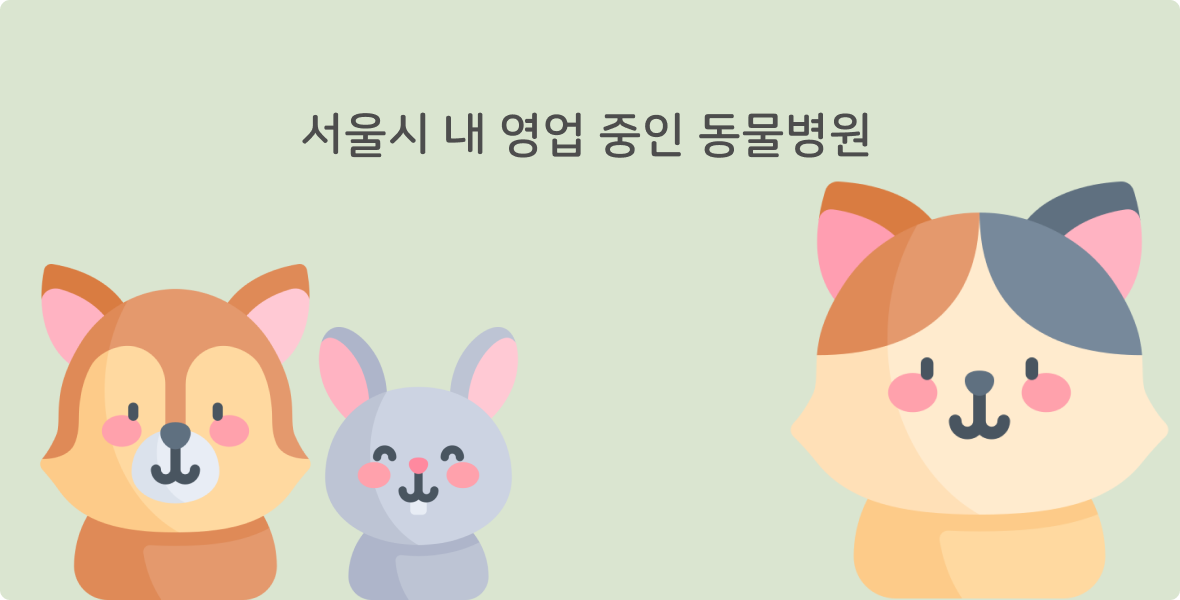
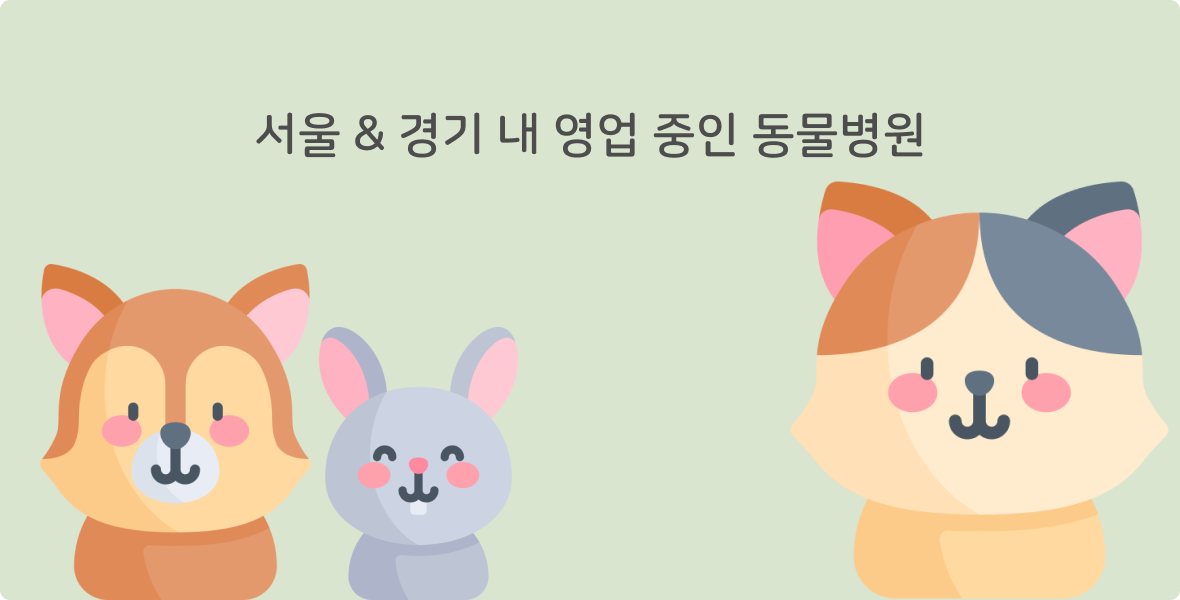
api 교체 (http -> https)

Changed region(s): [[0.2136, 0.18, 0.7932, 0.27]]

diff --git a/lib_info/js/hospital.js b/lib_info/js/hospital.js
@@ -8,7 +8,6 @@ const getNameByAPI = (url) => {
         if (xhr.readyState == XMLHttpRequest.DONE && xhr.status == 200) {
             // sucess
             // console.log("성공!");
-            console.log(xhr.response);
             show(xhr.response);
         } else {
             // fail
@@ -35,12 +34,12 @@ const show = (jsonString) => {
     var hTel = document.createElement("div");
     hTel.classList.add("hospital-tel");
     for (let i = count; i < 50; i++) {
-        if (json["LOCALDATA_020301"]["row"][i]["TRDSTATENM"] === "영업/정상") {
-            hName.innerHTML = `<i class='bx bx-plus-medical'></i> ${json["LOCALDATA_020301"]["row"][i]["BPLCNM"]}`;
+        if (json["Animalhosptl"][1]["row"][i]["BSN_STATE_NM"] === "정상" && json["Animalhosptl"][1]["row"][i]["LOCPLC_FACLT_TELNO"] != null) {
+            hName.innerHTML = `<i class='bx bx-plus-medical'></i> ${json["Animalhosptl"][1]["row"][i]["BIZPLC_NM"]}`;
             addContent.appendChild(hName);
-            hLoc.innerHTML = `<i class='bx bxs-map'></i> ${json["LOCALDATA_020301"]["row"][i]["RDNWHLADDR"]}`;
+            hLoc.innerHTML = `<i class='bx bxs-map'></i> ${json["Animalhosptl"][1]["row"][i]["REFINE_ROADNM_ADDR"]}`;
             addContent.appendChild(hLoc);
-            hTel.innerHTML = `<i class='bx bxs-phone'></i> ${json["LOCALDATA_020301"]["row"][i]["SITETEL"]}`;
+            hTel.innerHTML = `<i class='bx bxs-phone'></i> ${json["Animalhosptl"][1]["row"][i]["LOCPLC_FACLT_TELNO"]}`;
             addContent.appendChild(hTel);
             document.querySelector('#animal-hospital-page').appendChild(addContent);
             count++;
@@ -51,8 +50,8 @@ const show = (jsonString) => {
     }
 }
 
-const KEY = "4a484c627368796534315173486349";
-const url = `http://openapi.seoul.go.kr:8088/${KEY}/json/LOCALDATA_020301/1/30/`;
+const KEY = "935467f751a8405990b7aa3e5750f7c6";
+const url = `https://openapi.gg.go.kr/Animalhosptl?KEY=${KEY}&Type=json`;
 console.log(url);
 
 window.onscroll = function(e) {

diff --git a/lib_info/info.html b/lib_info/info.html
@@ -5,7 +5,6 @@
     <meta charset="UTF-8">
     <meta http-equiv="X-UA-Compatible" content="IE=edge">
     <meta name="viewport" content="width=device-width, initial-scale=1.0">
-    <meta http-equiv="Content-Security-Policy" content="upgrade-insecure-requests">
     <!-- BOX ICONS -->
     <link href='https://unpkg.com/boxicons@2.1.2/css/boxicons.min.css' rel='stylesheet'>
     <!-- CSS -->
@@ -79,14 +78,14 @@
         <div id="animal-hospital-page" class="container">
             <img src="../img/hospital-info.png" alt="">
             <div class="box">
-                <div class="hospital-name"><i class='bx bx-plus-medical'></i> 동물병원 예지</div>
-                <div class="hospital-loc"><i class='bx bxs-map'></i> 서울특별시 영등포구 신길로 29, 105동 116호 (대림동, e편한세상 영등포 아델포레)</div>
-                <div class="hospital-tel"><i class='bx bxs-phone'></i> 02-2135-7228</div>
+                <div class="hospital-name"><i class='bx bx-plus-medical'></i> 바우동물병원</div>
+                <div class="hospital-loc"><i class='bx bxs-map'></i> 경기도 안성시 공도읍 공도로 50</div>
+                <div class="hospital-tel"><i class='bx bxs-phone'></i> 031-657-0016</div>
             </div>
             <div class="box">
-                <div class="hospital-name"><i class='bx bx-plus-medical'></i> 치료해 주오</div>
-                <div class="hospital-loc"><i class='bx bxs-map'></i> 서울특별시 중랑구 동일로 925, 3층 (묵동)</div>
-                <div class="hospital-tel"><i class='bx bxs-phone'></i> 949-7577</div>
+                <div class="hospital-name"><i class='bx bx-plus-medical'></i> 가람동물병원</div>
+                <div class="hospital-loc"><i class='bx bxs-map'></i> 경기도 부천시 경인로 494, 조양프라자 (괴안동)</div>
+                <div class="hospital-tel"><i class='bx bxs-phone'></i> 031-343-1397</div>
             </div>
         </div>
     </main>
